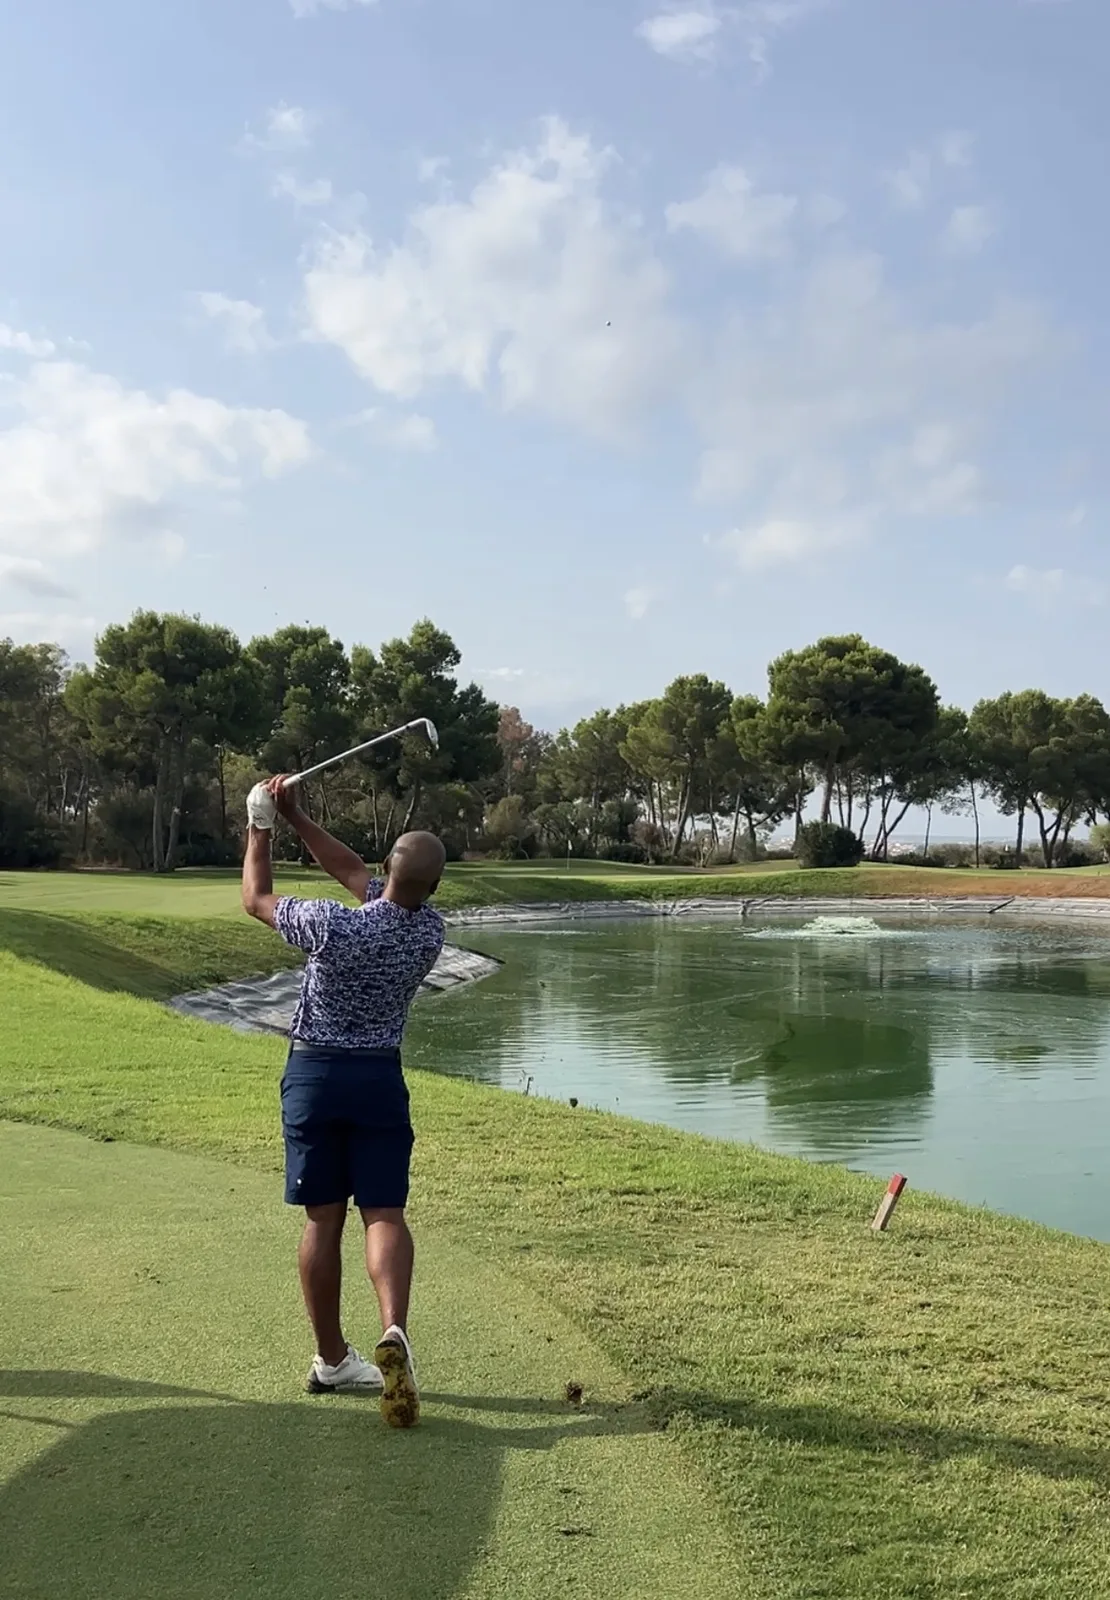
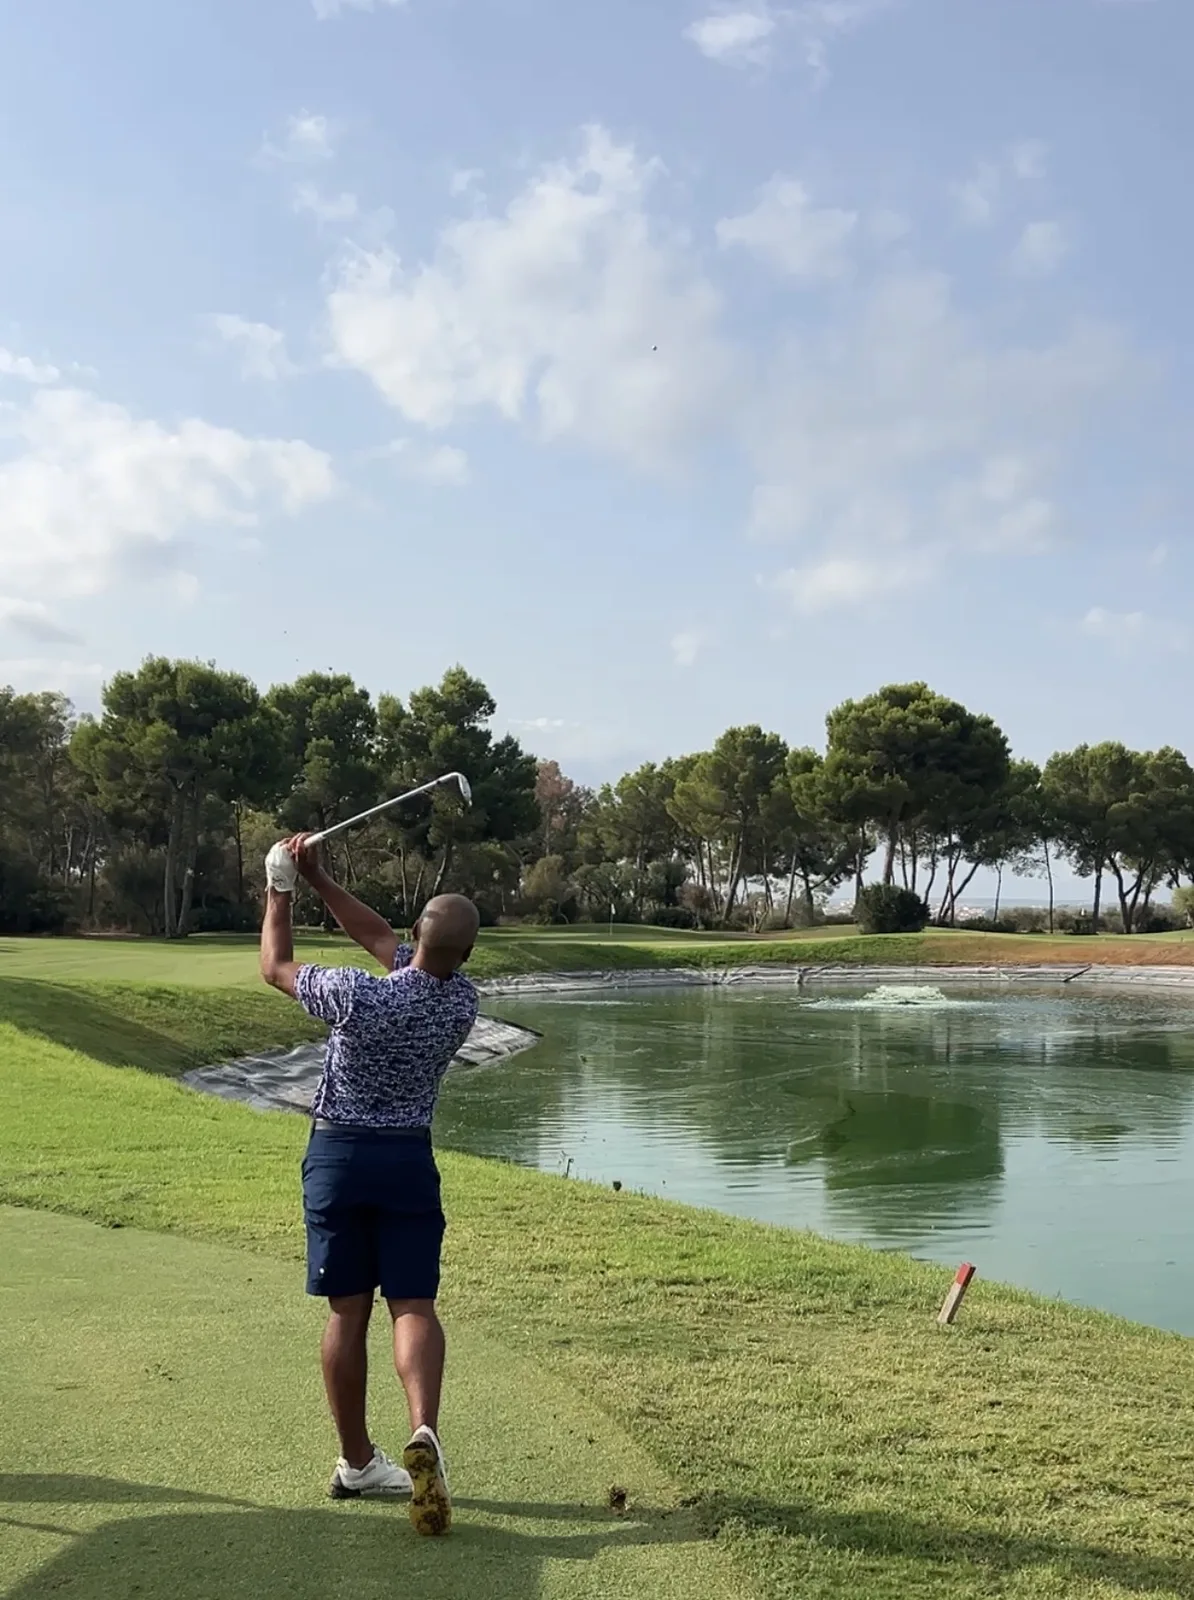
T Golf Palma: drop 15th-green photo, tighter crop on 15th swing shot
- Removed the pond/fountain "green at 15, guarded by water" image
  and its block per Andy's request.
- Re-cropped the 15th swing shot tighter to Andy's feet (from the
  original source, not the already-processed webp) to lose most of
  the remaining buggy-shadow tail.
- Dropped the caption on the playing-partner selfie (image not
  needed there per Andy).
- Mechanically synced all 6 locale overlays to the new 32-block
  structure (removed the same block, dropped the same caption) -
  no new translation, just keeping guide-parity intact until the
  English is fully signed off.

diff --git a/src/lib/guide-post-content-localized/t-golf-palma-review.js b/src/lib/guide-post-content-localized/t-golf-palma-review.js
@@ -71,10 +71,6 @@ const content = {
         "caption": "El approach al 15. Agua a la derecha y otro carry sobre el agua hacia el green."
       },
       {
-        "alt": "El green del hoyo 15 en T Golf Palma protegido por agua, con la bandera visible",
-        "caption": "El green del 15, protegido por agua en el lado del approach."
-      },
-      {
         "text": "El hoyo 18 fue el tee shot más difícil de encarar de todo el día, jugado desde los tees traseros a 379 m. Pegué lo que creí que era un buen drive en posición A y nunca encontramos la bola. Eso me costó la opción de terminar bajo par, y cerré con un bogey para un 72."
       },
       {
@@ -167,8 +163,7 @@ const content = {
         "text": "Es una buena opción para quien juegue varias vueltas por la zona de Palma y quiera una prueba seria sin necesitar un día entero. Si estás organizando un viaje más amplio, la <a href=\"/plan-your-trip\">guía de planificación del viaje</a> explica cómo encajar campos como este junto a <a href=\"/guides/t-golf-calvia-review\">T Golf Calvià</a>."
       },
       {
-        "alt": "Andy Griffiths con su compañero de juego antes de la vuelta en T Golf Palma",
-        "caption": "Con mi compañero de juego antes de la vuelta."
+        "alt": "Andy Griffiths con su compañero de juego antes de la vuelta en T Golf Palma"
       },
       {
         "text": "¿Quieres jugar T Golf Palma con un profesional PGA que conoce cada hoyo?",
@@ -245,10 +240,6 @@ const content = {
       {
         "alt": "Golfer spielt den Annäherungsschlag über Wasser auf dem 15. Loch bei T Golf Palma",
         "caption": "Das Anspiel auf Loch 15. Wasser rechts und ein weiterer Carry aufs Grün."
-      },
-      {
-        "alt": "Das 15. Grün bei T Golf Palma, von Wasser umgeben, mit sichtbarer Fahne",
-        "caption": "Das Grün auf 15, auf der Anspielseite von Wasser geschützt."
       },
       {
         "text": "Loch 18 war der schwierigste Abschlag des ganzen Tages, gespielt von den hinteren Abschlägen bei 379 m. Ich schlug, was ich für einen guten Drive in Position A hielt, und wir fanden den Ball nie wieder. Das kostete mich die Chance, unter Par abzuschließen, und ich beendete die Runde mit einem Bogey für eine 72."
@@ -343,8 +334,7 @@ const content = {
         "text": "Er passt gut zu allen, die mehrere Runden im Raum Palma spielen und einen richtigen Test wollen, ohne einen ganzen Tag zu brauchen. Wenn du eine größere Reise planst, deckt der <a href=\"/plan-your-trip\">Reiseplanungs-Guide</a> ab, wie man Plätze wie diesen neben <a href=\"/guides/t-golf-calvia-review\">T Golf Calvià</a> einplant."
       },
       {
-        "alt": "Andy Griffiths mit seinem Mitspieler vor der Runde bei T Golf Palma",
-        "caption": "Mit meinem Mitspieler vor der Runde."
+        "alt": "Andy Griffiths mit seinem Mitspieler vor der Runde bei T Golf Palma"
       },
       {
         "text": "T Golf Palma mit einem PGA-Professional spielen, der jedes Loch kennt?",
@@ -421,10 +411,6 @@ const content = {
       {
         "alt": "Golfeur jouant le coup d'approche au-dessus de l'eau sur le trou 15 à T Golf Palma",
         "caption": "L'approche sur le 15. De l'eau à droite et un nouveau carry vers le green."
-      },
-      {
-        "alt": "Le green du trou 15 à T Golf Palma protégé par l'eau, avec le drapeau visible",
-        "caption": "Le green du 15, protégé par l'eau côté approche."
       },
       {
         "text": "Le trou 18 a été le départ le plus difficile à cadrer de toute la journée, joué depuis les départs arrière à 379 m. J'ai frappé ce que je pensais être un bon drive en position A et nous n'avons jamais retrouvé la balle. Cela m'a coûté la chance de finir sous le par, et j'ai terminé avec un bogey pour un 72."
@@ -519,8 +505,7 @@ const content = {
         "text": "C'est un bon choix pour qui joue plusieurs parcours dans la région de Palma et veut un vrai test sans avoir besoin d'une journée entière. Si vous organisez un voyage plus large, le <a href=\"/plan-your-trip\">guide de planification du voyage</a> explique comment enchaîner des parcours comme celui-ci avec <a href=\"/guides/t-golf-calvia-review\">T Golf Calvià</a>."
       },
       {
-        "alt": "Andy Griffiths avec son partenaire de jeu avant la partie à T Golf Palma",
-        "caption": "Avec mon partenaire de jeu avant la partie."
+        "alt": "Andy Griffiths avec son partenaire de jeu avant la partie à T Golf Palma"
       },
       {
         "text": "Envie de jouer T Golf Palma avec un professionnel PGA qui connaît chaque trou ?",
@@ -597,10 +582,6 @@ const content = {
       {
         "alt": "Golfer speelt de approach-slag over water op hole 15 bij T Golf Palma",
         "caption": "De approach op hole 15. Water rechts en nog een carry naar de green."
-      },
-      {
-        "alt": "De green van hole 15 bij T Golf Palma omgeven door water, met de vlag zichtbaar",
-        "caption": "De green op 15, beschermd door water aan de approach-kant."
       },
       {
         "text": "Hole 18 was de lastigste tee shot om te richten van de hele dag, gespeeld vanaf de achterste tees op 379m. Ik sloeg wat ik dacht dat een goede drive in positie A was en we hebben de bal nooit teruggevonden. Dat kostte me de kans om onder par te eindigen, en ik sloot af met een bogey voor een 72."
@@ -695,8 +676,7 @@ const content = {
         "text": "Het is een goede optie voor wie meerdere ronden in de omgeving van Palma speelt en een serieuze test wil zonder een hele dag nodig te hebben. Ben je een grotere reis aan het plannen, dan behandelt de <a href=\"/plan-your-trip\">reisplanningsgids</a> hoe je banen als deze combineert met <a href=\"/guides/t-golf-calvia-review\">T Golf Calvià</a>."
       },
       {
-        "alt": "Andy Griffiths met zijn speelpartner voor de ronde bij T Golf Palma",
-        "caption": "Met mijn speelpartner voor de ronde."
+        "alt": "Andy Griffiths met zijn speelpartner voor de ronde bij T Golf Palma"
       },
       {
         "text": "Wil je T Golf Palma spelen met een PGA professional die elke hole kent?",
@@ -773,10 +753,6 @@ const content = {
       {
         "alt": "Golfare spelar inspelet över vatten på hål 15 hos T Golf Palma",
         "caption": "Inspelet på hål 15. Vatten till höger och ännu en carry mot greenen."
-      },
-      {
-        "alt": "Greenen på hål 15 hos T Golf Palma omgiven av vatten, med flaggan synlig",
-        "caption": "Greenen på 15, skyddad av vatten på inspelssidan."
       },
       {
         "text": "Hål 18 var dagens svåraste utslag att sikta, spelat från de bakre tee på 379 m. Jag slog vad jag trodde var ett bra utslag i position A och vi hittade aldrig bollen. Det kostade mig chansen att avsluta under par, och jag stängde med en bogey för en 72."
@@ -871,8 +847,7 @@ const content = {
         "text": "Den passar bra för den som spelar flera rundor i Palma-området och vill ha ett rejält test utan att behöva en hel dag. Om du planerar en större resa täcker <a href=\"/plan-your-trip\">reseplaneringsguiden</a> hur man lägger in banor som denna tillsammans med <a href=\"/guides/t-golf-calvia-review\">T Golf Calvià</a>."
       },
       {
-        "alt": "Andy Griffiths med sin spelpartner före rundan hos T Golf Palma",
-        "caption": "Med min spelpartner före rundan."
+        "alt": "Andy Griffiths med sin spelpartner före rundan hos T Golf Palma"
       },
       {
         "text": "Vill du spela T Golf Palma med en PGA-professional som känner varje hål?",
@@ -949,10 +924,6 @@ const content = {
       {
         "alt": "球手在T Golf Palma第15洞越过水面打进攻杆",
         "caption": "第15洞的进攻杆。右侧是水,第二杆还要再越过一次水面上果岭。"
-      },
-      {
-        "alt": "T Golf Palma第15洞果岭被水环绕,可见旗杆",
-        "caption": "第15洞的果岭,进攻方向被水障碍守护着。"
       },
       {
         "text": "第18洞是全天最难瞄准方向的发球台,从后发球台出发,379米。我打出了一杆自认为落在理想位置A的球,结果始终没找到。这让我失去了打出低于标准杆成绩的机会,最终以柏忌收尾,全场72杆。"
@@ -1047,8 +1018,7 @@ const content = {
         "text": "如果你打算在帕尔马地区打几轮球,又想要一次真正的考验而不需要花上一整天,这座球场是不错的选择。如果你在规划更长的行程,<a href=\"/plan-your-trip\">行程规划指南</a>介绍了如何把这样的球场和<a href=\"/guides/t-golf-calvia-review\">T Golf Calvià</a>安排在一起。"
       },
       {
-        "alt": "Andy Griffiths在T Golf Palma与球伴合影,赛前拍摄",
-        "caption": "赛前和我的球伴合影。"
+        "alt": "Andy Griffiths在T Golf Palma与球伴合影,赛前拍摄"
       },
       {
         "text": "想与熟悉每一个洞的PGA职业球员同打T Golf Palma？",

diff --git a/src/lib/guide-post-content.js b/src/lib/guide-post-content.js
@@ -982,16 +982,7 @@ export const GUIDE_POST_CONTENT = {
           alt: 'Golfer playing the approach shot over water on the 15th hole at T Golf Palma',
           caption: 'The approach at 15. Water down the right and a second carry into the green.',
           presentation: 'natural',
-          naturalWidth: 1110,
-          naturalHeight: 1600,
-        },
-        {
-          type: 'image',
-          src: '/images/t-golf-palma-blog/t-golf-palma-6.webp',
-          alt: 'The 15th green at T Golf Palma guarded by water with the flag visible',
-          caption: 'The green at 15, guarded by water on the approach side.',
-          presentation: 'natural',
-          naturalWidth: 1200,
+          naturalWidth: 1194,
           naturalHeight: 1600,
         },
         {
@@ -1078,7 +1069,6 @@ export const GUIDE_POST_CONTENT = {
           type: 'image',
           src: '/images/t-golf-palma-blog/t-golf-palma-8.webp',
           alt: 'Andy Griffiths with his playing partner before their round at T Golf Palma',
-          caption: 'With my playing partner before the round.',
           presentation: 'natural',
           naturalWidth: 1200,
           naturalHeight: 1600,
